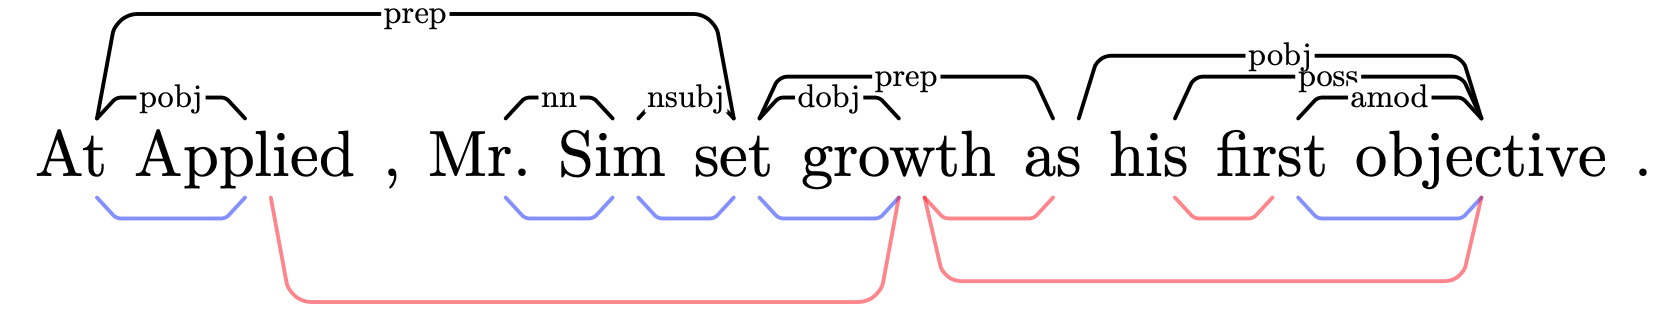
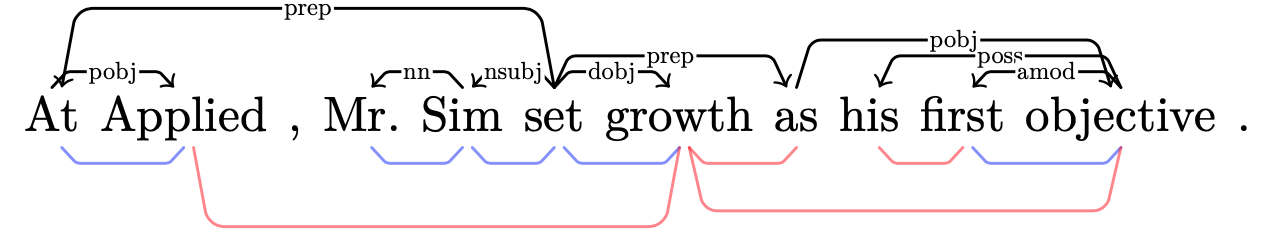
plotting examples

diff --git a/README.md b/README.md
@@ -137,9 +137,22 @@ Plotting pmi dependencies vs gold is useful... maybe.  To look at some plots, us
 python pmi-accuracy/print_tikz.py --sentence_indices 1696 --input_file path/to/scores*.csv
 ```
 
-This will output a LaTeX file `dependencies.tex`, to print
+This will output a LaTeX file `dependencies.tex`.
+
+Example: 
+
+- BERT
 
 ![example dependency plot](latex-plotting/example-1696-bert-large-60-proj.sum.png)
+
+- DisitilBERT
+
+![example dependency plot](latex-plotting/example-1696-distilbert-60-proj.sum.png)
+
+- Word2Vec
+
+![example dependency plot](latex-plotting/example-1696-w2v-60-proj.sum.png)
+
 
 - `--edge_type` you can specify projective or non projective edges, or symmetrize method tril, triu, sum, none like: `--edge_type nonproj.edges.tril`, for instance.  Default is `projective.edges.sum`.
 - optionally, multiple sentences at a time, and multiple edge types in order to be able to compare...
